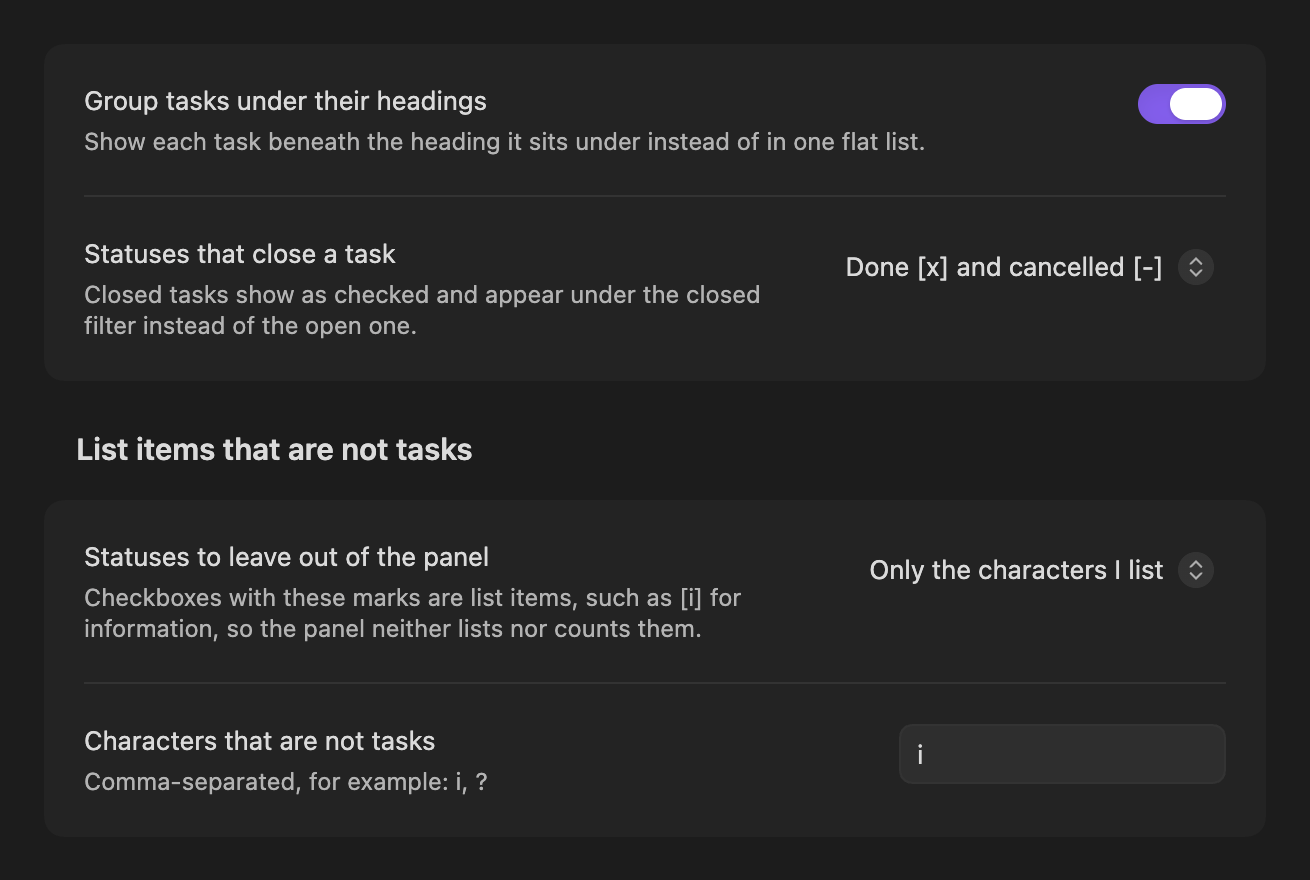
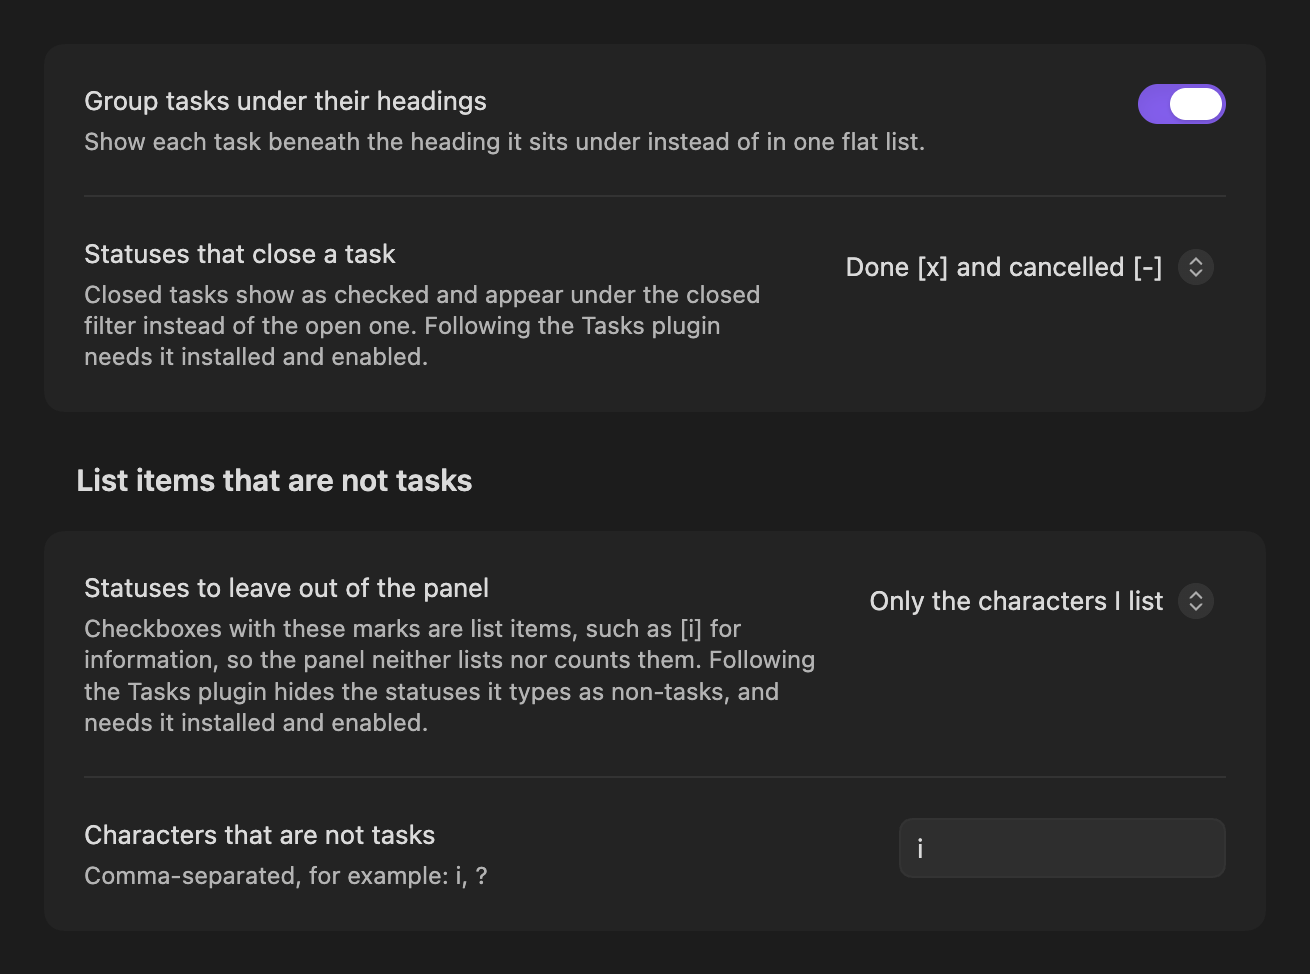
Warn in the settings when a Tasks option has no Tasks plugin to follow

diff --git a/tests/statuses.test.ts b/tests/statuses.test.ts
@@ -5,6 +5,7 @@ import {
 	parseSymbolList,
 	readTasksStatusConfigurations,
 	hiddenMarksFor,
+	isTasksPluginEnabled,
 	resolveStatusRules,
 	statusRulesFor,
 	statusReaderFor,
@@ -236,4 +237,10 @@ test("resolveStatusRules loads Tasks statuses when only the hidden rule follows 
 	assert.equal(loads, 1);
 	assert.equal(rules.isHidden("i"), true);
 	assert.equal(rules.read("x"), "done");
+});
+
+test("isTasksPluginEnabled is true only while the Tasks plugin is loaded", () => {
+	assert.equal(isTasksPluginEnabled(appWithTasksData(async () => ({}))), true);
+	assert.equal(isTasksPluginEnabled(appWithTasksData()), false);
+	assert.equal(isTasksPluginEnabled({} as unknown as App), false);
 });

diff --git a/README.md b/README.md
@@ -24,9 +24,9 @@ Task Overview reads and writes plain Markdown checkboxes, and it works with the 
 
 The "Statuses that close a task" setting decides which marks count as closed. By default only `[x]` and `[-]` do. You can instead close a task on any character inside the brackets, or list the characters yourself as a comma-separated list such as `x, -, >`.
 
-Choosing "Follow the Tasks plugin's statuses" makes the panel use the statuses you configured in Tasks, so a custom symbol such as `[>]` closes the task when Tasks types it as done or cancelled and stays open when Tasks types it as todo, in progress or on hold. Ticking a checkbox then moves the task to the next status in your Tasks cycle, exactly as clicking it in the editor would. When Tasks is not installed, this option falls back to the default.
+Choosing "Follow the Tasks plugin's statuses" makes the panel use the statuses you configured in Tasks, so a custom symbol such as `[>]` closes the task when Tasks types it as done or cancelled and stays open when Tasks types it as todo, in progress or on hold. Ticking a checkbox then moves the task to the next status in your Tasks cycle, exactly as clicking it in the editor would. This option needs Tasks installed and enabled; without it the settings say so and the panel falls back to the default.
 
-Some checkboxes are list items rather than tasks, such as `[i]` for a piece of information. The "Statuses to leave out of the panel" setting keeps them off the list and out of the counts: either list the characters yourself, such as `i, ?`, or follow the Tasks plugin, which hides every symbol Tasks types as a non-task. Tasks nested under a hidden item still show.
+Some checkboxes are list items rather than tasks, such as `[i]` for a piece of information. The "Statuses to leave out of the panel" setting keeps them off the list and out of the counts: either list the characters yourself, such as `i, ?`, or follow the Tasks plugin, which hides every symbol Tasks types as a non-task and, like the closing option, needs Tasks installed and enabled. Tasks nested under a hidden item still show.
 
 When Tasks is installed, ticking a checkbox in the panel hands the toggle to that plugin, so it stamps the done and cancelled dates and creates the next occurrence of a recurring task just as it does in the editor. When it is not installed, the panel flips `[ ]` to `[x]` itself. Nothing here depends on Tasks being present; the panel looks for it at runtime and falls back on its own.
 
